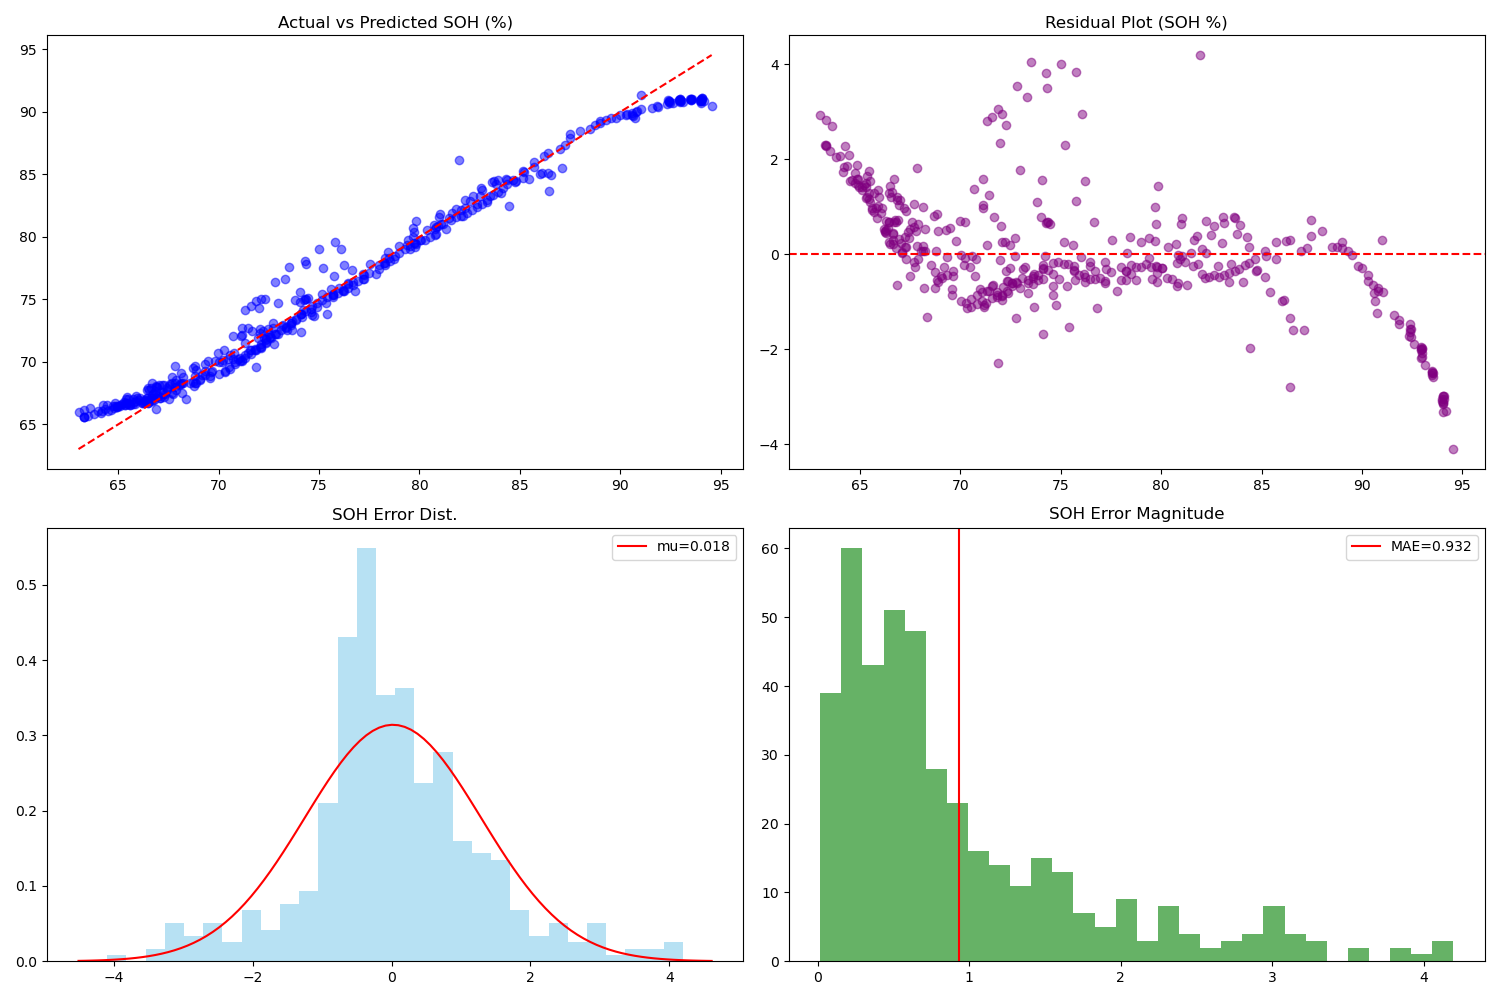
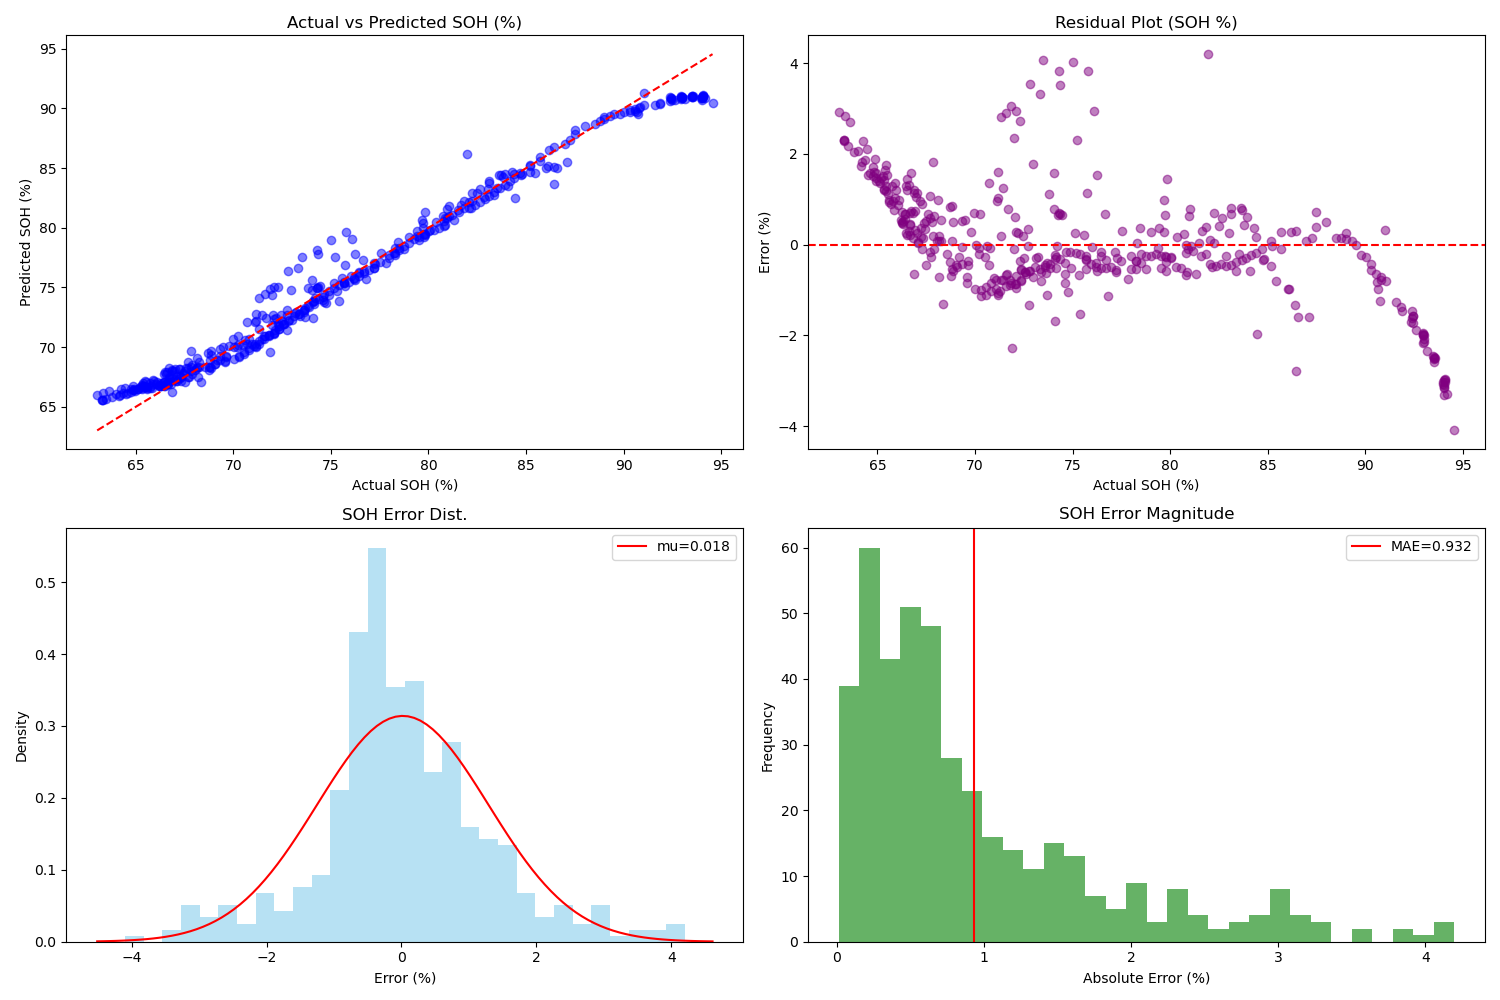
axis

diff --git a/1. CNN_LSTM前30分鐘數據預測SOH_依battery_id拆分/CNN_LSTM_test.py b/1. CNN_LSTM前30分鐘數據預測SOH_依battery_id拆分/CNN_LSTM_test.py
@@ -73,6 +73,8 @@ def main():
     x_range = np.linspace(xmin, xmax, 100)
     plt.plot(x_range, norm.pdf(x_range, mu, std_err), 'r', linewidth=2, label=f'mu={mu:.4f}\nsigma={std_err:.4f}')
     plt.title('Error Distribution (Gaussian Fit)')
+    plt.xlabel('Error (Ah)')
+    plt.ylabel('Density')
     plt.legend()
 
     # 圖 4: 誤差絕對值直方圖
@@ -81,6 +83,8 @@ def main():
     plt.hist(abs_err, bins=30, color='green', edgecolor='black', alpha=0.6)
     plt.axvline(x=np.mean(abs_err), color='red', linestyle='--', label=f'MAE={np.mean(abs_err):.4f}')
     plt.title('Error Magnitude Distribution')
+    plt.xlabel('Absolute Error (Ah)')
+    plt.ylabel('Frequency')
     plt.legend()
 
     plt.tight_layout()
@@ -97,11 +101,15 @@ def main():
     plt.scatter(all_targets_soh, all_preds_soh, alpha=0.5, color='blue')
     plt.plot([min(all_targets_soh), max(all_targets_soh)], [min(all_targets_soh), max(all_targets_soh)], 'r--')
     plt.title('Actual vs Predicted SOH (%)')
+    plt.xlabel('Actual SOH (%)')
+    plt.ylabel('Predicted SOH (%)')
     
     plt.subplot(2, 2, 2)
     plt.scatter(all_targets_soh, residuals_soh, alpha=0.5, color='purple')
     plt.axhline(y=0, color='red', linestyle='--')
     plt.title('Residual Plot (SOH %)')
+    plt.xlabel('Actual SOH (%)')
+    plt.ylabel('Error (%)')
 
     plt.subplot(2, 2, 3)
     mu_s, std_s = norm.fit(residuals_soh)
@@ -109,12 +117,16 @@ def main():
     x_s = np.linspace(plt.xlim()[0], plt.xlim()[1], 100)
     plt.plot(x_s, norm.pdf(x_s, mu_s, std_s), 'r', label=f'mu={mu_s:.3f}')
     plt.title('SOH Error Dist.')
+    plt.xlabel('Error (%)')
+    plt.ylabel('Density')
     plt.legend()
 
     plt.subplot(2, 2, 4)
     plt.hist(np.abs(residuals_soh), bins=30, color='green', alpha=0.6)
     plt.axvline(x=np.mean(np.abs(residuals_soh)), color='red', label=f'MAE={np.mean(np.abs(residuals_soh)):.3f}')
     plt.title('SOH Error Magnitude')
+    plt.xlabel('Absolute Error (%)')
+    plt.ylabel('Frequency')
     plt.legend()
 
     plt.tight_layout()
